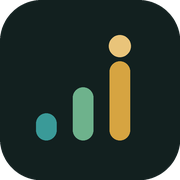
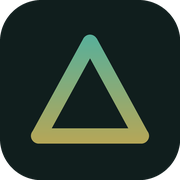
Uygulama adi Delta; yeni simge

Changed region(s): [[0.1667, 0.1944, 0.8333, 0.8056], [0.9444, 0.8889, 0.9722, 0.9167]]

diff --git a/index.html b/index.html
@@ -7,8 +7,8 @@
 <meta name="apple-mobile-web-app-capable" content="yes">
 <meta name="mobile-web-app-capable" content="yes">
 <meta name="apple-mobile-web-app-status-bar-style" content="black-translucent">
-<meta name="apple-mobile-web-app-title" content="Adım Adım">
-<title>Adım Adım</title>
+<meta name="apple-mobile-web-app-title" content="Delta">
+<title>Delta</title>
 <link rel="icon" href="favicon.png">
 <link rel="apple-touch-icon" href="apple-touch-icon.png">
 <link rel="manifest" href="manifest.json">
@@ -258,7 +258,7 @@
 <div id="giris" hidden>
   <div class="gkart">
     <img src="icon-192.png" width="56" height="56" alt="" style="border-radius:14px">
-    <h1 style="margin-top:12px">Adım Adım</h1>
+    <h1 style="margin-top:12px">Delta</h1>
     <p class="galt" id="g-slogan">Dersini, çalışmanı ve yatırımını tek yerden takip et.</p>
 
     <div id="g-hesaplar" hidden></div>
@@ -287,7 +287,7 @@
 <main id="v-merkez" class="wrap">
   <header class="top">
     <div class="g">
-      <div class="eyebrow">Adım Adım · Merkez</div>
+      <div class="eyebrow">Delta · Merkez</div>
       <h1 id="m-baslik">Bugün</h1>
       <div class="sub mono" id="m-tarih">—</div>
     </div>
@@ -376,7 +376,7 @@
 <main id="v-altin" class="wrap" hidden>
   <header class="top">
     <div class="g">
-      <div class="eyebrow">Adım Adım · Finans</div>
+      <div class="eyebrow">Delta · Finans</div>
       <h1>Altın Panosu</h1>
       <div class="tazelik" id="tazelik">fiyat alınıyor…</div>
     </div>
@@ -456,7 +456,7 @@
 
 <script>
 /* ===== ortak ===== */
-const SURUM = "20.09 20:50";
+const SURUM = "20.09 21:01";
 const AY = ["Ocak","Şubat","Mart","Nisan","Mayıs","Haziran","Temmuz","Ağustos","Eylül","Ekim","Kasım","Aralık"];
 const GUN = ["Pzt","Sal","Çar","Per","Cum","Cmt","Paz"];
 const GUNU = ["Pazartesi","Salı","Çarşamba","Perşembe","Cuma","Cumartesi","Pazar"];
